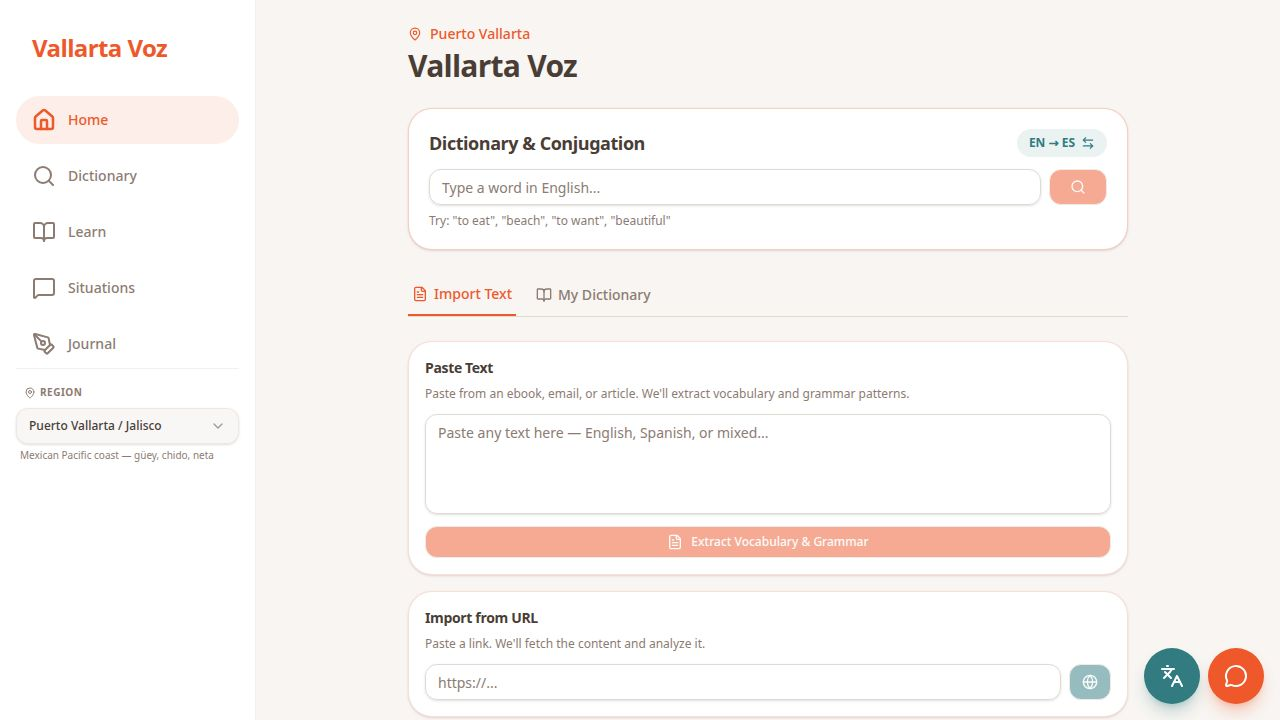
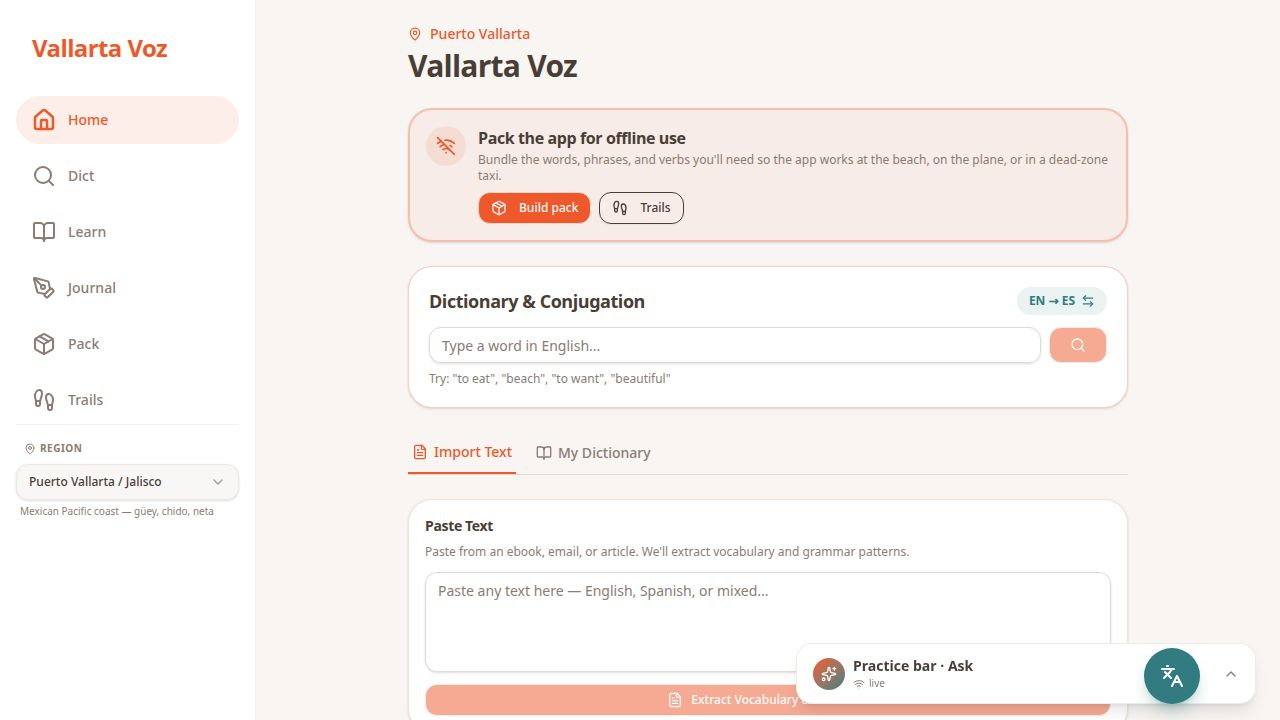
Task #2 (round 4): journal offline, ID remap on sync, trails offline fallbacks
Server (unchanged from r3)
- storage.updateTrailNode + PATCH /api/trails/:id/nodes/:nodeId.

Client — closing reviewer's r3 blockers
1. Journal offline-first
   - pages/journal.tsx: analyze now goes through smartFetch with an
     offlineFallback that returns the original entry with empty
     corrections/vocab so the UI keeps working; node is recorded with
     source="queued" and the request enqueues for replay. Removed the
     redundant manual recordNode call (smartFetch handles it).

2. Staged-node ID remapping on sync
   - lib/offline-queue.ts: new remapQueuedTrailIds(trailMap, nodeMap)
     rewrites trailId/trailNodeId on every queued request when staged
     ids are reconciled to real server ids.
   - lib/trail-store.ts: syncStaged() now records the
     stagedNodeId -> realNodeId map and calls remapQueuedTrailIds
     before returning, so PATCH-on-replay always targets a real node.

3. Trails offline fallback for summarize / nearby doors
   - pages/trails.tsx: when offline (or the live call fails),
     summarizeMutation returns a local heuristic recap (count by
     kind + last 5 step labels) and doorsMutation returns
     "revisit" suggestions seeded from recent step labels, with copy
     stating that the AI version returns when online. Available
     offline as required (reduced quality acceptable).

Already in place from r3 (kept)
- Shared smartFetch wrapper used by EVERY AI surface: home (lookup +
[…]

diff --git a/client/src/pages/trails.tsx b/client/src/pages/trails.tsx
@@ -7,6 +7,7 @@ import { useQuery, useMutation, useQueryClient } from "@tanstack/react-query";
 import { useToast } from "@/hooks/use-toast";
 import { useLocale } from "@/lib/locale-context";
 import { useActiveTrail } from "@/lib/trail-store";
+import { useOnline } from "@/lib/use-online";
 
 type Trail = { id: number; name: string; tags: string[]; locale: string | null; createdAt: string; updatedAt: string };
 type TrailNode = { id: number; trailId: number; kind: string; label: string; payload: any; source: string; createdAt: string };
@@ -82,12 +83,49 @@ export default function TrailsPage() {
     },
   });
 
+  const online = useOnline();
+
+  const localSummary = (nodes: TrailNode[]) => {
+    const byKind: Record<string, number> = {};
+    nodes.forEach((n) => { byKind[n.kind] = (byKind[n.kind] || 0) + 1; });
+    const recent = nodes.slice(-5).map((n) => `• ${n.kind}: ${n.label}`);
+    const breakdown = Object.entries(byKind).map(([k, c]) => `${c} ${k}${c === 1 ? "" : "s"}`).join(", ") || "no steps yet";
+    return {
+      summary: `Offline view — ${nodes.length} step${nodes.length === 1 ? "" : "s"} so far (${breakdown}). A richer AI recap will appear when you're back online.`,
+      bullets: recent.length ? recent : ["No steps recorded yet."],
+    };
+  };
+
   const summarizeMutation = useMutation({
-    mutationFn: async () => (await fetch(`/api/trails/${selectedId}/summarize`, { method: "POST" })).json(),
+    mutationFn: async () => {
+      if (!online) {
+        const nodes = detailQuery.data?.nodes || [];
+        return localSummary(nodes);
+      }
+      const res = await fetch(`/api/trails/${selectedId}/summarize`, { method: "POST" });
+      if (!res.ok) return localSummary(detailQuery.data?.nodes || []);
+      return res.json();
+    },
     onSuccess: (data) => setSummary(data),
   });
+
+  const localDoors = (nodes: TrailNode[]) => {
+    const seeds = Array.from(new Set(nodes.map((n) => n.label).filter(Boolean))).slice(-3);
+    return seeds.map((label) => ({
+      kind: "lookup",
+      label: `Revisit "${label}"`,
+      seed: label,
+      reason: "From your recent steps. Live AI suggestions will return when you're online.",
+    }));
+  };
+
   const doorsMutation = useMutation({
-    mutationFn: async () => (await fetch(`/api/trails/${selectedId}/doors`, { method: "POST" })).json(),
+    mutationFn: async () => {
+      if (!online) return { doors: localDoors(detailQuery.data?.nodes || []) };
+      const res = await fetch(`/api/trails/${selectedId}/doors`, { method: "POST" });
+      if (!res.ok) return { doors: localDoors(detailQuery.data?.nodes || []) };
+      return res.json();
+    },
     onSuccess: (data) => setDoors(data.doors || []),
   });
 

diff --git a/client/src/lib/trail-store.ts b/client/src/lib/trail-store.ts
@@ -1,5 +1,6 @@
 import { useEffect, useState } from "react";
 import { idbGetAll, idbPut, idbDelete, idbGet } from "./idb";
+import { remapQueuedTrailIds } from "./offline-queue";
 
 export type TrailNodeKind = "lookup" | "translation" | "journal" | "chat" | "situation" | "grammar" | "question";
 
@@ -143,7 +144,7 @@ export async function syncStaged(): Promise<{ trails: number; nodes: number }> {
   const stagedTrails = all.filter((v) => v && typeof v === "object" && typeof v.stagedId === "number");
   const stagedNodes = all.filter((v) => v && typeof v === "object" && typeof v.stagedNodeId === "number");
 
-  const idMap = new Map<number, number>();
+  const trailMap = new Map<number, number>();
   let createdTrails = 0;
   for (const t of stagedTrails) {
     try {
@@ -154,18 +155,18 @@ export async function syncStaged(): Promise<{ trails: number; nodes: number }> {
       });
       if (!res.ok) continue;
       const created = await res.json();
-      idMap.set(t.stagedId, created.id);
+      trailMap.set(t.stagedId, created.id);
       await idbDelete(KV, `${STAGED_TRAIL_PREFIX}${t.stagedId}`);
       createdTrails++;
-      // If active trail is this staged trail, update it
       const active = readActive();
       if (active?.id === t.stagedId) writeActive({ id: created.id, name: created.name });
     } catch { /* keep staged for next pass */ }
   }
 
+  const nodeMap = new Map<number, number>();
   let createdNodes = 0;
   for (const n of stagedNodes) {
-    const realTrailId = n.trailId < 0 ? idMap.get(n.trailId) : n.trailId;
+    const realTrailId = n.trailId < 0 ? trailMap.get(n.trailId) : n.trailId;
     if (!realTrailId) continue;
     try {
       const res = await fetch(`/api/trails/${realTrailId}/nodes`, {
@@ -174,9 +175,15 @@ export async function syncStaged(): Promise<{ trails: number; nodes: number }> {
         body: JSON.stringify({ kind: n.kind, label: n.label, payload: n.payload, source: n.source }),
       });
       if (!res.ok) continue;
+      const created = await res.json();
+      nodeMap.set(n.stagedNodeId, created.id);
       await idbDelete(KV, `${STAGED_PREFIX}${n.stagedNodeId}`);
       createdNodes++;
     } catch { /* retry next pass */ }
   }
+
+  // Rewrite any queued requests so PATCH-on-replay targets the real ids.
+  await remapQueuedTrailIds(trailMap, nodeMap);
+
   return { trails: createdTrails, nodes: createdNodes };
 }

diff --git a/client/src/pages/journal.tsx b/client/src/pages/journal.tsx
@@ -7,9 +7,9 @@ import { Book, Sparkles, ArrowRight, Info, Heart, Lightbulb, Wind, CheckCircle2 
 import { useState } from "react";
 import { motion, AnimatePresence } from "framer-motion";
 import { useMutation } from "@tanstack/react-query";
-import { recordNode } from "@/lib/trail-store";
 import { Link } from "wouter";
 import { useLocale } from "@/lib/locale-context";
+import { smartFetch } from "@/lib/api-fetch";
 
 type Feedback = {
   corrected: string;
@@ -93,18 +93,23 @@ export default function Journal() {
 
   const analyzeMutation = useMutation({
     mutationFn: async (data: { text: string; tenseFocus: string; locale: string }) => {
-      const response = await fetch("/api/journal/analyze", {
-        method: "POST",
-        headers: { "Content-Type": "application/json" },
-        body: JSON.stringify(data),
+      const r = await smartFetch<{ feedback: Feedback }>({
+        endpoint: "/api/journal/analyze",
+        body: data,
+        trailKind: "journal",
+        label: `Journal (${data.tenseFocus}): ${data.text.slice(0, 40)}`,
+        lookupKey: data.text,
+        offlineFallback: () => ({
+          feedback: {
+            corrected: data.text,
+            corrections: [],
+            vocab: [],
+          },
+        }),
       });
-      if (!response.ok) throw new Error("Failed to analyze text");
-      return response.json();
+      return r.data;
     },
-    onSuccess: (data, vars) => {
-      setFeedback(data.feedback);
-      recordNode("journal", `${vars.tenseFocus}: ${vars.text.slice(0, 60)}`, { tenseFocus: vars.tenseFocus, text: vars.text, corrected: data.feedback?.corrected });
-    },
+    onSuccess: (data) => setFeedback(data.feedback),
   });
 
   const currentSection = journalSections.find(s => s.id === activeSection)!;

diff --git a/client/src/lib/offline-queue.ts b/client/src/lib/offline-queue.ts
@@ -31,6 +31,27 @@ export async function dequeue(id: string) {
   await idbDelete(QUEUE_STORE, id);
 }
 
+/** Rewrite trailId/trailNodeId on every queued request using the given remap.
+ *  Called by the trail sync to point queued PATCH-on-replay at the freshly
+ *  created server node ids, instead of the staged negative sentinels. */
+export async function remapQueuedTrailIds(
+  trailMap: Map<number, number>,
+  nodeMap: Map<number, number>,
+): Promise<number> {
+  if (trailMap.size === 0 && nodeMap.size === 0) return 0;
+  const queue = await listQueued();
+  let updated = 0;
+  for (const req of queue) {
+    const newTrailId = req.trailId !== undefined && trailMap.has(req.trailId) ? trailMap.get(req.trailId)! : req.trailId;
+    const newNodeId = req.trailNodeId !== undefined && nodeMap.has(req.trailNodeId) ? nodeMap.get(req.trailNodeId)! : req.trailNodeId;
+    if (newTrailId !== req.trailId || newNodeId !== req.trailNodeId) {
+      await idbPut(QUEUE_STORE, { ...req, trailId: newTrailId, trailNodeId: newNodeId }, req.id);
+      updated++;
+    }
+  }
+  return updated;
+}
+
 let replayInFlight = false;
 type ReplayHandlers = {
   onSuccess?: (req: QueuedRequest, response: any) => void | Promise<void>;
